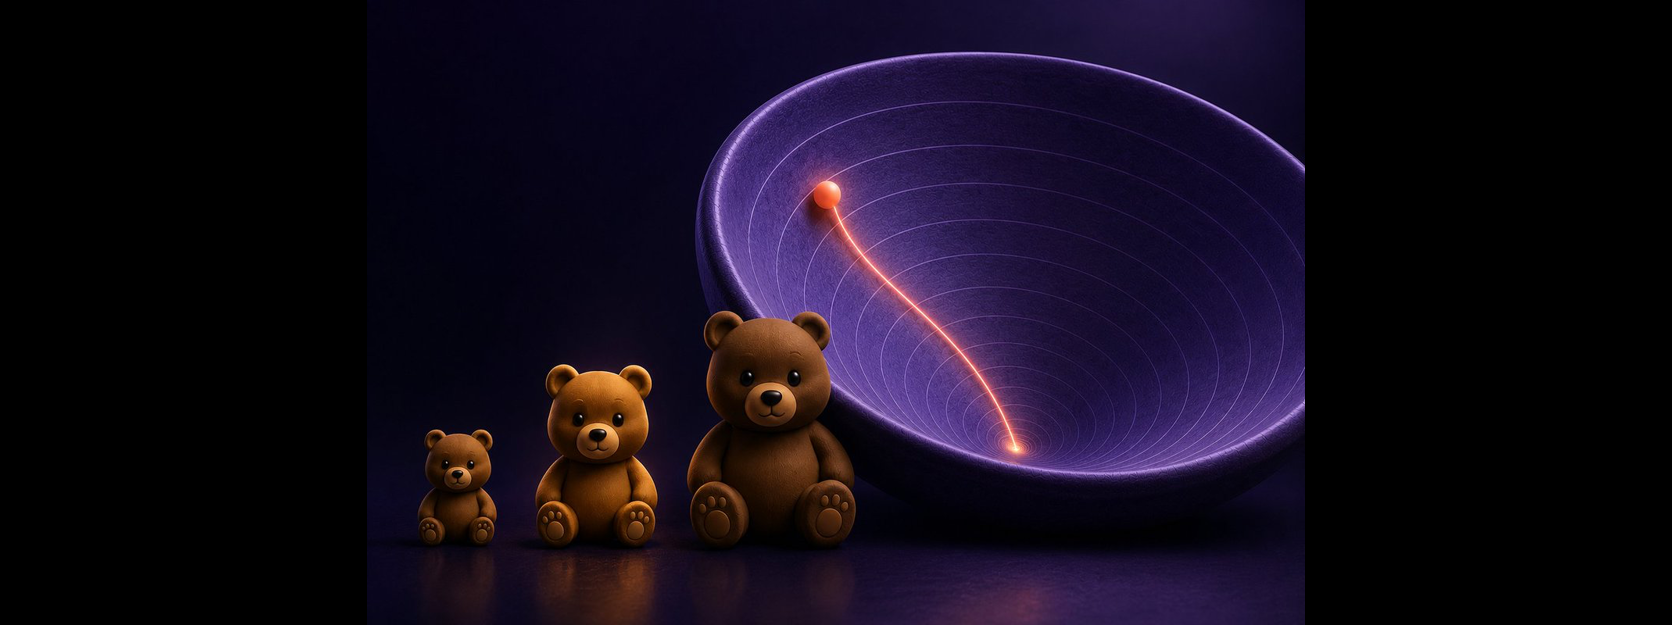
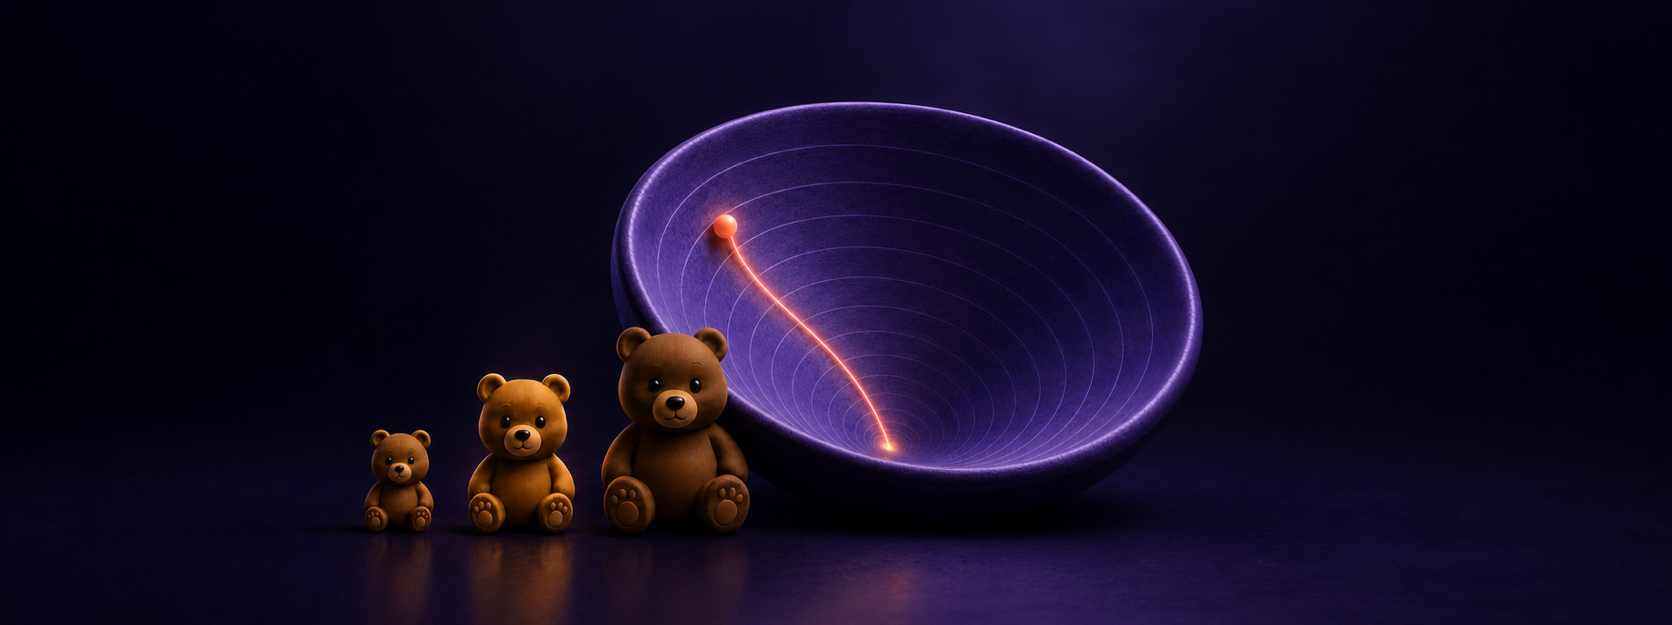
Tighten Goldilocks teaser framing

diff --git a/docs/index.html b/docs/index.html
@@ -25,7 +25,7 @@
     <a class="visualization-card featured" href="https://csprofkgd.github.io/sphere-to-cubemap/" target="_blank" rel="noreferrer"><div class="image-link"><img class="teaser-image" src="./teasers/sphere-to-cubemap-dark.png" alt="Sphere to Cubemap teaser"></div><div class="card-copy"><div><p class="category">Projective Geometry</p><h3>Sphere to Cubemap</h3><p class="description">Six views. One environment.</p></div></div></a>
     <a class="visualization-card" href="https://csprofkgd.github.io/sphere-to-equirectangular-projection/" target="_blank" rel="noreferrer"><div class="image-link"><img class="teaser-image" src="./teasers/sphere-to-erp-dark.png" alt="Sphere to Equirectangular Projection teaser"></div><div class="card-copy"><div><p class="category">Projective Geometry</p><h3>Sphere to Equirectangular Projection</h3><p class="description">Same world. Different coordinates.</p></div></div></a>
     <a class="visualization-card" href="https://drive.google.com/file/d/152g4rEaCUWYxlKoeqIGiFclYNPV5a1ol/view?usp=share_link" target="_blank" rel="noreferrer"><div class="image-link"><img class="teaser-image" src="./teasers/local-minimum-dark.png" alt="Stuck in a Bad Local Minimum teaser"></div><div class="card-copy"><div><p class="category">Optimization</p><h3>Stuck in a Bad Local Minimum?</h3><p class="description">Why local minima are rarely the problem.</p></div></div></a>
-    <a class="visualization-card" href="https://csprofkgd.github.io/goldilocks-learning-rates/" target="_blank" rel="noreferrer"><div class="image-link"><img class="teaser-image" src="./teasers/goldilocks-learning-rates-dark.png?v=20260827-goldilocks" alt="The Goldilocks Principle of Learning Rates teaser"></div><div class="card-copy"><div><p class="category">Optimization</p><h3>The Goldilocks Principle of Learning Rates</h3><p class="description">One number. Three very different outcomes.</p></div></div></a>
+    <a class="visualization-card" href="https://csprofkgd.github.io/goldilocks-learning-rates/" target="_blank" rel="noreferrer"><div class="image-link"><img class="teaser-image" src="./teasers/goldilocks-learning-rates-dark.png?v=20260827-goldilocks-outpainted-tight" alt="The Goldilocks Principle of Learning Rates teaser"></div><div class="card-copy"><div><p class="category">Optimization</p><h3>The Goldilocks Principle of Learning Rates</h3><p class="description">One number. Three very different outcomes.</p></div></div></a>
     <a class="visualization-card" href="https://csprofkgd.github.io/gradient-descent-lab/" target="_blank" rel="noreferrer"><div class="image-link"><img class="teaser-image" src="./teasers/gradient-descent-dark.png" alt="Gradient Descent teaser"></div><div class="card-copy"><div><p class="category">Optimization</p><h3>Gradient Descent</h3><p class="description">Tighten up your learning rate. We’re going down.</p></div></div></a>
     <a class="visualization-card" href="https://csprofkgd.github.io/partial-derivatives-visualization/" target="_blank" rel="noreferrer"><div class="image-link"><img class="teaser-image" src="./teasers/partial-derivatives-dark.png" alt="Partial Derivatives teaser"></div><div class="card-copy"><div><p class="category">Calculus</p><h3>Partial Derivatives</h3><p class="description">Hold one variable constant. Follow the curve. Read the slope.</p></div></div></a>
     <a class="visualization-card" href="https://csprofkgd.github.io/system-of-equations-visualization/" target="_blank" rel="noreferrer"><div class="image-link"><img class="teaser-image" src="./teasers/system-of-equations-dark.png" alt="Linear Systems as Geometry teaser"></div><div class="card-copy"><div><p class="category">Linear Algebra</p><h3>Linear Systems as Geometry</h3><p class="description">Where constraints meet, solutions appear.</p></div></div></a>

diff --git a/app/page.tsx b/app/page.tsx
@@ -109,7 +109,7 @@ const visualizations: Visualization[] = [
   },
 ];
 
-const TEASER_ASSET_VERSION = "20260827-goldilocks-learning-rates";
+const TEASER_ASSET_VERSION = "20260827-goldilocks-outpainted-tight";
 
 export default function Home() {
   const [theme, setTheme] = useState<Theme>("dark");

diff --git a/context.md b/context.md
@@ -24,7 +24,7 @@ Updated: 2026-08-27
 
 ## Accepted content and replacements
 
-- Goldilocks Learning Rates: place directly after “Stuck in a Bad Local Minimum?” and before “Gradient Descent.” Use the hero title “The Goldilocks Principle of Learning Rates,” subtitle “One number. Three very different outcomes.,” Optimization category, and `https://csprofkgd.github.io/goldilocks-learning-rates/`. Use the user-supplied teddy-bear/bowl raster on the shared 1672×625 black teaser canvas, identically in light and dark modes.
+- Goldilocks Learning Rates: place directly after “Stuck in a Bad Local Minimum?” and before “Gradient Descent.” Use the hero title “The Goldilocks Principle of Learning Rates,” subtitle “One number. Three very different outcomes.,” Optimization category, and `https://csprofkgd.github.io/goldilocks-learning-rates/`. Use the tightly framed, horizontally outpainted teddy-bear/bowl composition on the shared 1672×625 teaser canvas, with the indigo-purple scene continuing seamlessly to every raster edge and no black side bars; use the identical raster in light and dark modes.
 - Perspective Projection: use the user-supplied `/Users/kosta/Downloads/PP_black.png`, normalized to the shared 1672×625 teaser canvas and used identically in light and dark modes.
 - Sphere to Cubemap and Sphere to Equirectangular Projection: use the outpainted compositions with black background at every raster edge and modest breathing room around the complete globe and mapping diagram. Preserve every legitimate cyan latitude/longitude arc and every cyan cubemap/ERP segment outline. Remove the orange/coral vertical meridian and all associated glow from both representations.
 - Parallel Stereo: use the user-supplied `/Users/kosta/Downloads/binocular.png` raster, already at the shared 1672×625 canvas, identically for both dark and light teaser assets.
@@ -52,10 +52,10 @@ Updated: 2026-08-27
 
 ## Final verification (must all pass)
 
-- [x] Desktop light: visually inspect all 12 cards and author card.
-- [x] Desktop dark: visually inspect all 12 cards and author card.
-- [x] Mobile light: scroll through all 12 cards; verify top corners, side clipping, seams, and equal dimensions.
-- [x] Mobile dark: scroll through all 12 cards; verify top corners, side clipping, seams, and equal dimensions.
+- [x] Desktop light: visually inspect all 13 cards and author card.
+- [x] Desktop dark: visually inspect all 13 cards and author card.
+- [x] Mobile light: scroll through all 13 cards; verify top corners, side clipping, seams, and equal dimensions.
+- [x] Mobile dark: scroll through all 13 cards; verify top corners, side clipping, seams, and equal dimensions.
 - [x] Programmatically compare hero height, copy-top Y position, and total card height for every row.
 - [x] Verify all source teaser files have identical dimensions and square raster corners.
 - [x] Do not complete or deploy until every requested change has been visually verified in the rendered page.
